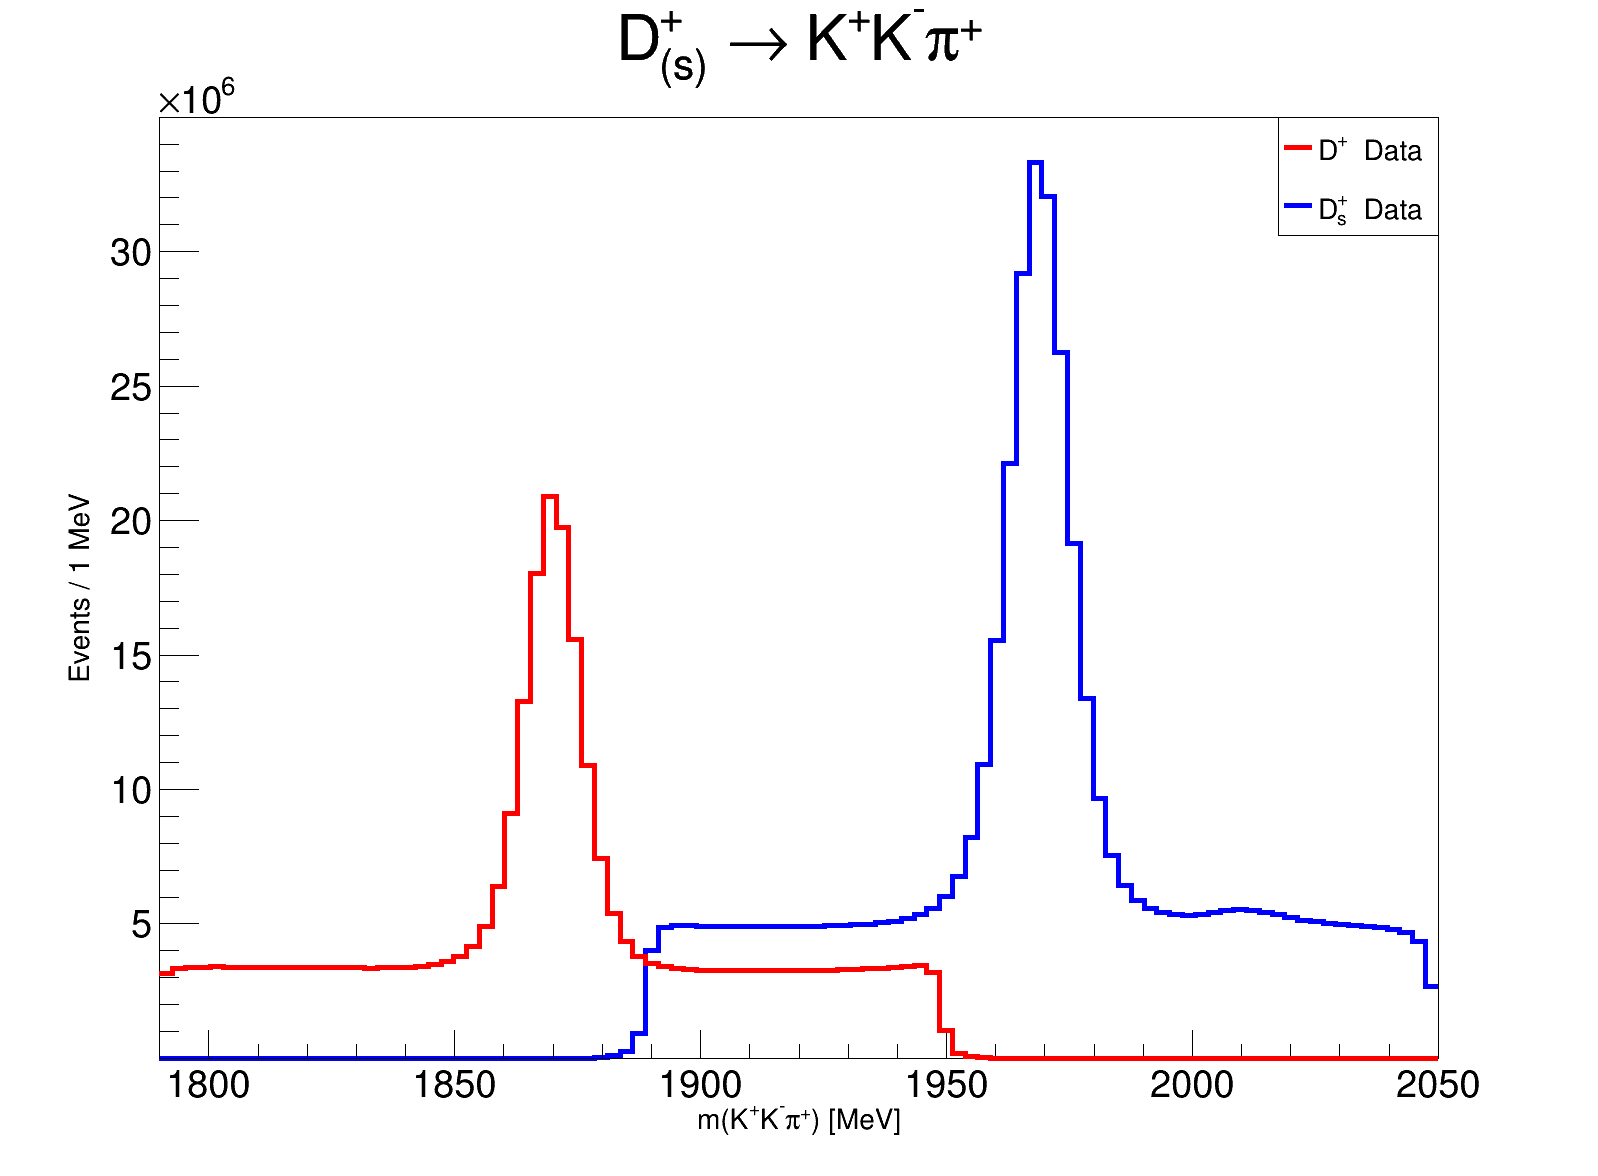
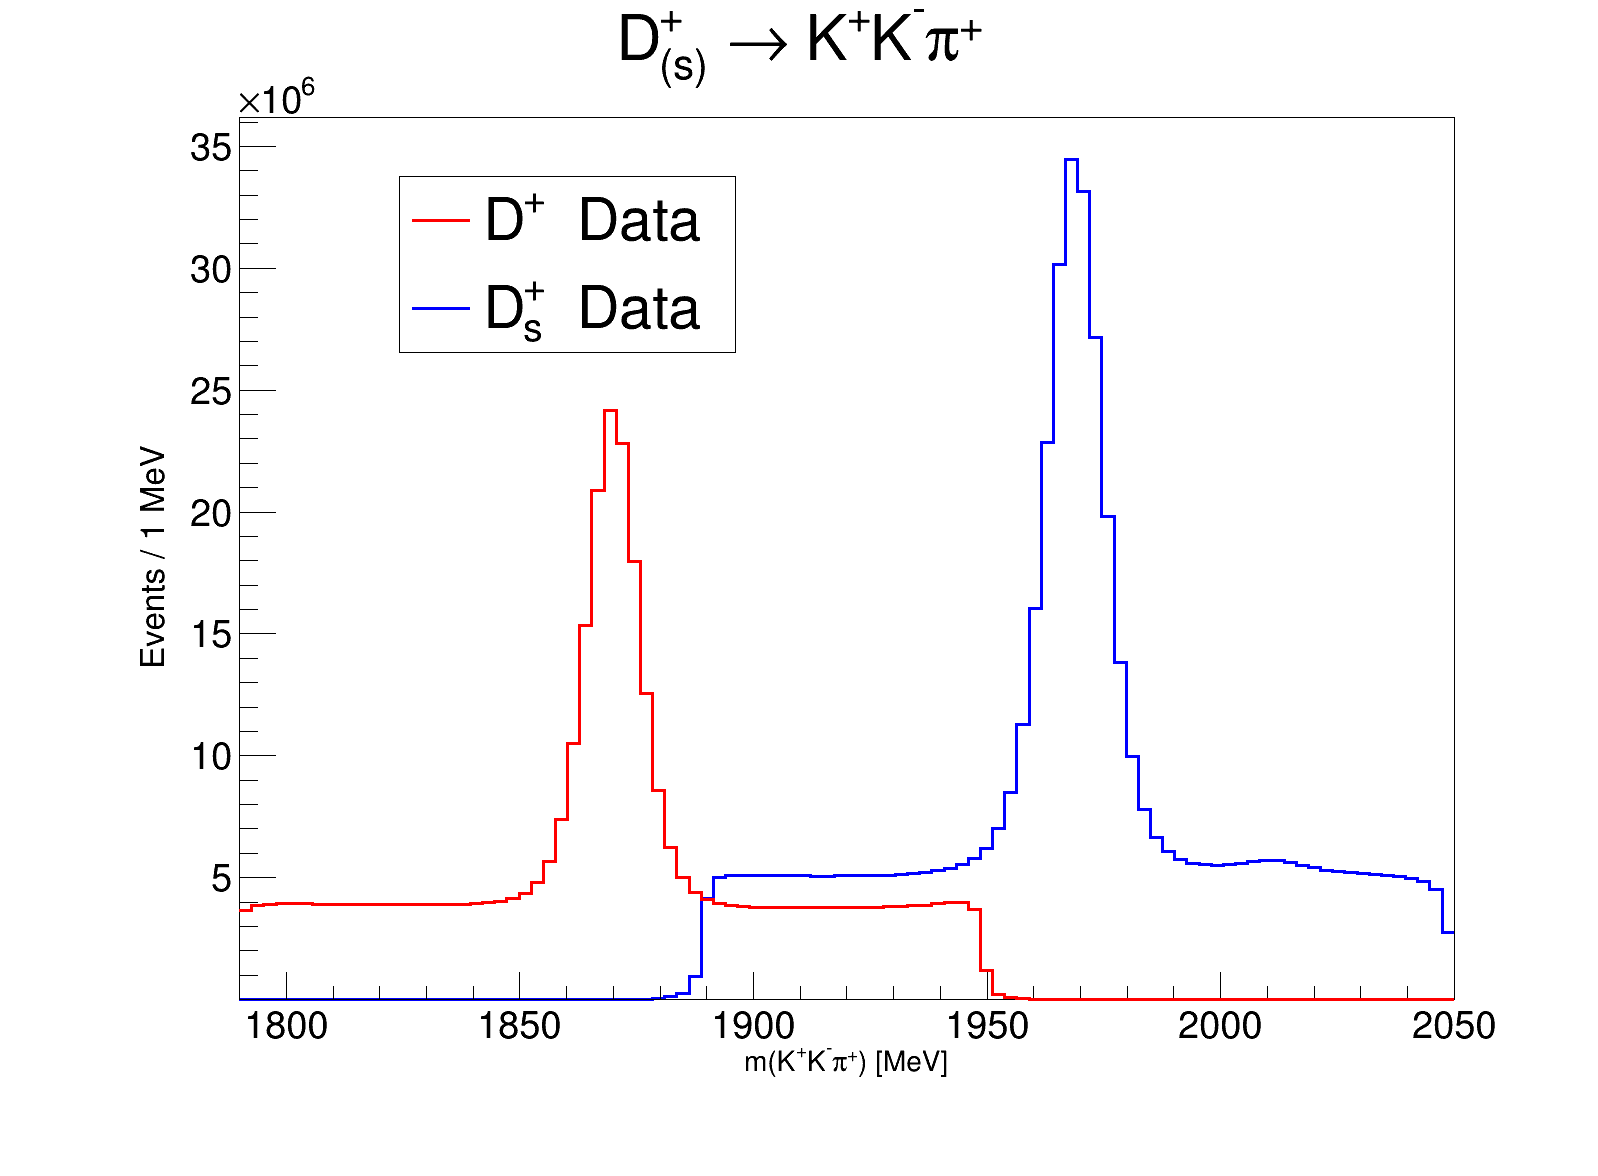
cut and fit testing

diff --git a/extra_info_rdf.C b/extra_info_rdf.C
@@ -2,23 +2,22 @@
 #include <TMath.h>
 #include <math.h>
 #include "scripts/fit1MeV_GaussianPlusCBWithExp_redo.C"
-
 using namespace std;
 using namespace ROOT;
+
 
 EnableImplicitMT();
 
 
 //create rdataframe for dp, dsp magdown data
 /*
-RDataFrame dpdf("D2KKpi/DecayTree", {"/share/lazy/D2KKpi/dp2kkpi_magdown.root","/share/lazy/D2KKpi/dp2kkpi_magup.root"});
-RDataFrame dspdf("Dsp2KKpi/DecayTree", {"/share/lazy/D2KKpi/dsp2kkpi_magdown.root","/share/lazy/D2KKpi/dsp2kkpi_magup.root"});
+RDataFrame dpdf("D2KKpi/DecayTree", {"/share/lazy/D2KKpi/dpmagup_dec20.root","/share/lazy/D2KKpi/dpmagdown_dec20.root"});
+RDataFrame dspdf("Dsp2KKpi/DecayTree", {"/share/lazy/D2KKpi/dspmagup_dec20.root","/share/lazy/D2KKpi/dspmagdown_dec20.root"});
 */
 
 //smaller test sets
-
-RDataFrame dpdf("D2KKpi/DecayTree", "/share/lazy/D2KKpi/magdowndata/dp1.root");
-RDataFrame dspdf("Dsp2KKpi/DecayTree", "/share/lazy/D2KKpi/magdowndata/dsp01.root");
+RDataFrame dpdf("D2KKpi/DecayTree", "/share/lazy/D2KKpi/dp_data_dec20/dpmagup01.root");
+RDataFrame dspdf("Dsp2KKpi/DecayTree", "/share/lazy/D2KKpi/dsp_data_dec20/dspmagdown01.root");
 
 
 
@@ -27,142 +26,33 @@ RDataFrame dspdf("Dsp2KKpi/DecayTree", "/share/lazy/D2KKpi/magdowndata/dsp01.roo
 /*
 auto dpdf_count = dpdf.Count();
 double dpdfEntries = *dpdf_count;
-cout << "Dp MagDown Raw Entries: " << dpdfEntries << endl;
+cout << "Raw Entries: " << dpdfEntries << endl;
 */
 
 //get and print column names
+/*
 auto colNames = dpdf.GetColumnNames();
 for (auto &&colName : colNames) std::cout << colName << std::endl;
+*/
 
 
 
+auto dprunhist = dpdf.Fill<unsigned int>(TH1D("dprunhist","D+ run number", 8000, 194000, 202000), {"runNumber"});
 
 
 
+double xVals[8000];
+double runCount[8000];
+for (int i=1;i<8000;i++) {
+	int x = dprunhist->GetBinCenter(i);
+	int val = dprunhist->GetBinContent(i);
+    xVals[i]=x;
+    runCount[i]=val;
 
-
-
-
-
-const double phi_pm = 10;//12 for regular cut
-const double phiupperbound = (1019.455+phi_pm)*(1019.455+phi_pm)/1000000; 
-const double philowerbound = (1019.455-phi_pm)*(1019.455-phi_pm)/1000000; 
-
-const int binmin = 1790;//1790 absolute minimum for dp
-const int binmax = 2050;//max value for dsp is 2050
-const int nbins = 100;
-
-
-
-
-
-
-
-auto inv_m_func = [](double px1, double py1, double pz1, double pe1, double px2, double py2, double pz2, double pe2) {return TLorentzVector(TLorentzVector(px1, py1, pz1, pe1)+TLorentzVector(px2, py2, pz2, pe2)).Mag2()/1000000 ;};
-auto prob_func = [](double prob1, double prob2) {return TMath::Log(prob1) - TMath::Log(prob2) ;};
-auto probNNx_func = [](double prob1, double prob2, double prob3) {return prob1*prob2*prob3 ;};
-
-
-auto cut_ipchi2 = [](double x) {return x < 4 ;};//5 for regular cut
-auto cut_fdchi2 = [](double x) {return x > 225 ;};//175 for regular cut
-auto cut_endvertexchi2 = [](double x) {return x < 9 ;};
-auto cut_phi = [phiupperbound, philowerbound](double x) {return x > philowerbound && x < phiupperbound ;};
-auto cut_prob_5 = [] (double x) {return x>5 ;};
-auto cut_prob_0 = [] (double x) {return x>0 ;};
-auto cut_probnnx = [] (double x) {return x >= 0.70 ;};
-auto cut_pK_ambiguity = [] (double x) {return x> 10000 ;}; //10,000 MeV = 10GeV
-
-
-
-auto dp_cut = dpdf.Filter(cut_ipchi2, {"Dplus_IPCHI2_OWNPV"})
-				   .Filter(cut_fdchi2, {"Dplus_FDCHI2_OWNPV"})
-				   .Filter(cut_endvertexchi2, {"Dplus_ENDVERTEX_CHI2"})
-				   .Filter(cut_pK_ambiguity, {"Kplus_P"})
-				   .Filter(cut_pK_ambiguity, {"Kminus_P"})
-				   .Define("kminuslog", prob_func, {"Kminus_MC15TuneV1_ProbNNk", "Kminus_MC15TuneV1_ProbNNpi"})
-				   .Define("kpluslog", prob_func, {"Kplus_MC15TuneV1_ProbNNk", "Kplus_MC15TuneV1_ProbNNpi"})
-				   .Define("pipluslog", prob_func, {"Piplus_MC15TuneV1_ProbNNpi", "Piplus_MC15TuneV1_ProbNNk"})
-				   .Filter(cut_prob_5, {"kminuslog"})
-				   .Filter(cut_prob_5, {"kpluslog"})
-				   .Filter(cut_prob_0, {"pipluslog"})
-				   .Define("ProbNNx", probNNx_func, {"Kminus_MC15TuneV1_ProbNNk", "Kplus_MC15TuneV1_ProbNNk", "Piplus_MC15TuneV1_ProbNNpi"})
-				   .Filter(cut_probnnx, {"ProbNNx"})
-				   .Define("mkpkm", inv_m_func, {"Kplus_PX", "Kplus_PY", "Kplus_PZ", "Kplus_PE", "Kminus_PX", "Kminus_PY", "Kminus_PZ", "Kminus_PE"})
-				   .Filter(cut_phi, {"mkpkm"});
-
-auto dsp_cut = dspdf.Filter(cut_ipchi2, {"Dsplus_IPCHI2_OWNPV"})
-				   .Filter(cut_fdchi2, {"Dsplus_FDCHI2_OWNPV"})
-				   .Filter(cut_endvertexchi2, {"Dsplus_ENDVERTEX_CHI2"})
-				   .Filter(cut_pK_ambiguity, {"Kplus_P"})
-				   .Filter(cut_pK_ambiguity, {"Kminus_P"})
-				   .Define("kminuslog", prob_func, {"Kminus_MC15TuneV1_ProbNNk", "Kminus_MC15TuneV1_ProbNNpi"})
-				   .Define("kpluslog", prob_func, {"Kplus_MC15TuneV1_ProbNNk", "Kplus_MC15TuneV1_ProbNNpi"})
-				   .Define("pipluslog", prob_func, {"Piplus_MC15TuneV1_ProbNNpi", "Piplus_MC15TuneV1_ProbNNk"})
-				   .Filter(cut_prob_5, {"kminuslog"})
-				   .Filter(cut_prob_5, {"kpluslog"})
-				   .Filter(cut_prob_0, {"pipluslog"})
-				   .Define("ProbNNx", probNNx_func, {"Kminus_MC15TuneV1_ProbNNk", "Kplus_MC15TuneV1_ProbNNk", "Piplus_MC15TuneV1_ProbNNpi"})
-				   .Filter(cut_probnnx, {"ProbNNx"})
-				   .Define("mkpkm", inv_m_func, {"Kplus_PX", "Kplus_PY", "Kplus_PZ", "Kplus_PE", "Kminus_PX", "Kminus_PY", "Kminus_PZ", "Kminus_PE"})
-				   .Filter(cut_phi, {"mkpkm"});
-
-
-
-//auto blackhist = new TH1D("blackhist", "", 1, binmin, 
-
-
-
-
-
-auto dptotalcuthist = dp_cut.Fill<double>(TH1D("dptotalcuthist","D^{+}_{(s)} #rightarrow K^{+}K^{-}#pi^{+}",nbins, binmin, binmax), {"Dplus_MM"});//D^{+} #rightarrow K^{+}K^{-}#pi^{+} Cut and Fit
-	dptotalcuthist->SetStats(0);
-	dptotalcuthist->SetTitle("");//this is for no title for nsf plot
-    //dptotalcuthist->SetTitleFont(43);
-    //dptotalcuthist->SetTitleSize(33);
-    dptotalcuthist->GetYaxis()->SetTitle("Events / 1 MeV/c^{2}");//Candidates/(1 MeV/c^{2})
-    dptotalcuthist->SetMinimum(100);//make minimum 100 so logy doesnt break, make 100 or better viewing
-    dptotalcuthist->GetYaxis()->SetTitleFont(43);
-	dptotalcuthist->GetYaxis()->SetTitleSize(50);
-	dptotalcuthist->GetYaxis()->CenterTitle(true);
-	dptotalcuthist->GetYaxis()->SetTitleOffset(1.3);
-    dptotalcuthist->GetXaxis()->SetTitle("m(K^{+}K^{-}#pi^{+}) [MeV]");//"m(K^{+}K^{-}#pi^{+}) [MeV]"
-    dptotalcuthist->GetXaxis()->SetTitleFont(43);
-	dptotalcuthist->GetXaxis()->SetTitleSize(50);
-	dptotalcuthist->GetXaxis()->CenterTitle(true);
-	dptotalcuthist->GetXaxis()->SetTitleOffset(1.4);
-	dptotalcuthist->SetLineColor(kRed);
-	dptotalcuthist->SetLineWidth(5);
-	dptotalcuthist->GetXaxis()->SetLabelSize(50);
-	dptotalcuthist->GetXaxis()->SetLabelFont(43);
-	dptotalcuthist->GetYaxis()->SetLabelSize(50);
-	dptotalcuthist->GetYaxis()->SetLabelFont(43);
-
-
-auto dsptotalcuthist = dsp_cut.Fill<double>(TH1D("dsptotalcuthist","D^{+}_{(s)} #rightarrow K^{+}K^{-}#pi^{+}",nbins, binmin, binmax), {"Dsplus_MM"});//D^{+}_{s} #rightarrow K^{+}K^{-}#pi^{+} Cut and Fit
-	dsptotalcuthist->SetStats(0);
-	dsptotalcuthist->SetTitle("");//this is for no title for nsf plot
-    //dsptotalcuthist->SetTitleFont(43);
-    //dsptotalcuthist->SetTitleSize(33);
-    dsptotalcuthist->GetYaxis()->SetTitle("Events / 1 MeV");//Candidates/(1 MeV/c^{2})
-    dsptotalcuthist->SetMinimum(100);//make minimum 100 so logy doesnt break, make 100 or better viewing
-    dsptotalcuthist->GetYaxis()->SetTitleFont(43);
-	dsptotalcuthist->GetYaxis()->SetTitleSize(50);
-	dsptotalcuthist->GetYaxis()->CenterTitle(true);
-	dsptotalcuthist->GetYaxis()->SetTitleOffset(1.4);
-    dsptotalcuthist->GetXaxis()->SetTitle("m(K^{+}K^{-}#pi^{+}) [MeV]");
-    dsptotalcuthist->GetXaxis()->SetTitleFont(43);
-	dsptotalcuthist->GetXaxis()->SetTitleSize(50);
-	dsptotalcuthist->GetXaxis()->CenterTitle(true);
-	dsptotalcuthist->GetXaxis()->SetTitleOffset(1.3);
-	dsptotalcuthist->SetLineColor(kBlue);
-	dsptotalcuthist->SetLineWidth(5);
-	dsptotalcuthist->GetXaxis()->SetLabelSize(50);
-	dsptotalcuthist->GetXaxis()->SetLabelFont(43);
-	dsptotalcuthist->GetYaxis()->SetLabelSize(50);
-	dsptotalcuthist->GetYaxis()->SetLabelFont(43);
-
-
-
+	if (runCount[i] > 1) {
+		cout << "runNumber " << xVals[i] << " has " << runCount[i] << " candidates." << endl;
+	}
+}
 
 
 }//end

diff --git a/dp_dsp_rdf.C b/dp_dsp_rdf.C
@@ -11,14 +11,14 @@ EnableImplicitMT();
 
 //create rdataframe for dp, dsp magdown data
 
-RDataFrame dpdf("D2KKpi/DecayTree", {"/share/lazy/D2KKpi/dp2kkpi_magdown.root","/share/lazy/D2KKpi/dp2kkpi_magup.root"});
-RDataFrame dspdf("Dsp2KKpi/DecayTree", {"/share/lazy/D2KKpi/dsp2kkpi_magdown.root","/share/lazy/D2KKpi/dsp2kkpi_magup.root"});
+RDataFrame dpdf("D2KKpi/DecayTree", {"/share/lazy/D2KKpi/dpmagup_dec20.root","/share/lazy/D2KKpi/dpmagdown_dec20.root"});
+RDataFrame dspdf("Dsp2KKpi/DecayTree", {"/share/lazy/D2KKpi/dspmagup_dec20.root","/share/lazy/D2KKpi/dspmagdown_dec20.root"});
 
 
 //smaller test sets
 /*
-RDataFrame dpdf("D2KKpi/DecayTree", "/share/lazy/D2KKpi/magdowndata/dp1.root");
-RDataFrame dspdf("Dsp2KKpi/DecayTree", "/share/lazy/D2KKpi/magdowndata/dsp01.root");
+RDataFrame dpdf("D2KKpi/DecayTree", "/share/lazy/D2KKpi/dp_data_dec20/dpmagup01.root");
+RDataFrame dspdf("Dsp2KKpi/DecayTree", "/share/lazy/D2KKpi/dsp_data_dec20/dspmagdown01.root");
 */
 
 
@@ -41,7 +41,7 @@ const int nbins = 100;
 auto inv_m_func = [](double px1, double py1, double pz1, double pe1, double px2, double py2, double pz2, double pe2) {return TLorentzVector(TLorentzVector(px1, py1, pz1, pe1)+TLorentzVector(px2, py2, pz2, pe2)).Mag2()/1000000 ;};
 auto prob_func = [](double prob1, double prob2) {return TMath::Log(prob1) - TMath::Log(prob2) ;};
 auto probNNx_func = [](double prob1, double prob2, double prob3) {return prob1*prob2*prob3 ;};
-auto lifetime_func = [cc](double fd, double m, double p) {return (fd*m)/(p*cc*(10^3)) ;};
+auto lifetime_func = [&cc](double fd, double m, double p) {return (fd*m)/(p*cc*(10^3)) ;};
 
 
 auto cut_ipchi2 = [](double x) {return x < 4 ;};//5 for regular cut
@@ -72,9 +72,9 @@ auto dp_cut = dpdf.Filter(cut_ipchi2, {"Dplus_IPCHI2_OWNPV"})
 				   .Define("ProbNNx", probNNx_func, {"Kminus_MC15TuneV1_ProbNNk", "Kplus_MC15TuneV1_ProbNNk", "Piplus_MC15TuneV1_ProbNNpi"})
 				   .Filter(cut_probnnx, {"ProbNNx"})
 				   .Define("mkpkm", inv_m_func, {"Kplus_PX", "Kplus_PY", "Kplus_PZ", "Kplus_PE", "Kminus_PX", "Kminus_PY", "Kminus_PZ", "Kminus_PE"})
-				   .Filter(cut_phi, {"mkpkm"})
-				   .Define("dp_lifetime", lifetime_func, {"Dplus_FD_OWNPV", "Dplus_MM", "Dplus_P"})
-				   .Filter(cut_tau, {"dp_lifetime"});
+				   .Filter(cut_phi, {"mkpkm"});
+//				   .Define("dp_lifetime", lifetime_func, {"Dplus_FD_OWNPV", "Dplus_MM", "Dplus_P"})
+//				   .Filter(cut_tau, {"dp_lifetime"});
 
 
 auto dsp_cut = dspdf.Filter(cut_ipchi2, {"Dsplus_IPCHI2_OWNPV"})
@@ -92,9 +92,9 @@ auto dsp_cut = dspdf.Filter(cut_ipchi2, {"Dsplus_IPCHI2_OWNPV"})
 				   .Define("ProbNNx", probNNx_func, {"Kminus_MC15TuneV1_ProbNNk", "Kplus_MC15TuneV1_ProbNNk", "Piplus_MC15TuneV1_ProbNNpi"})
 				   .Filter(cut_probnnx, {"ProbNNx"})
 				   .Define("mkpkm", inv_m_func, {"Kplus_PX", "Kplus_PY", "Kplus_PZ", "Kplus_PE", "Kminus_PX", "Kminus_PY", "Kminus_PZ", "Kminus_PE"})
-				   .Filter(cut_phi, {"mkpkm"})
-				   .Define("dsp_lifetime", lifetime_func, {"Dsplus_FD_OWNPV", "Dsplus_MM", "Dsplus_P"})
-			   	   .Filter(cut_tau, {"dsp_lifetime"});
+				   .Filter(cut_phi, {"mkpkm"});
+//				   .Define("dsp_lifetime", lifetime_func, {"Dsplus_FD_OWNPV", "Dsplus_MM", "Dsplus_P"})
+//			   	   .Filter(cut_tau, {"dsp_lifetime"});
 
 
 
@@ -108,7 +108,7 @@ auto dptotalcuthist = dp_cut.Fill<double>(TH1D("dptotalcuthist","D^{+}_{(s)} #ri
 	dptotalcuthist->SetStats(0);
     dptotalcuthist->SetTitleFont(43);
     dptotalcuthist->SetTitleSize(33);
-    dptotalcuthist->GetYaxis()->SetTitle("Events / 1 MeV/c^{2}");//Candidates/(1 MeV/c^{2})
+    dptotalcuthist->GetYaxis()->SetTitle("Events / 1 MeV");//Candidates/(1 MeV/c^{2})
     dptotalcuthist->SetMinimum(100);//make minimum 100 so logy doesnt break, make 100 for better viewing
     dptotalcuthist->GetYaxis()->SetTitleFont(43);
 	dptotalcuthist->GetYaxis()->SetTitleSize(35);
@@ -176,7 +176,7 @@ auto linytotalpullcan = new TCanvas("linytotalpullcan", "linytotalpullcan", 1600
 
 linytotalpullcan->Update();
 
-linytotalpullcan->SaveAs("image/dp_dsp_taucut_liny.png");
+linytotalpullcan->SaveAs("image/dp_dsp_liny.png");
 
 auto logytotalpullcan = new TCanvas("logytotalpullcan", "logytotalpullcan", 1600, 1200);
 	logytotalpullcan->cd();
@@ -187,7 +187,7 @@ auto logytotalpullcan = new TCanvas("logytotalpullcan", "logytotalpullcan", 1600
 	dsptotalcuthist->Draw();
 	dptotalcuthist->Draw("same");
 	dpdsplegendlogy->Draw("same");
-logytotalpullcan->SaveAs("image/dp_dsp_taucut_logy.png");
+logytotalpullcan->SaveAs("image/dp_dsp_logy.png");
 
 
 
